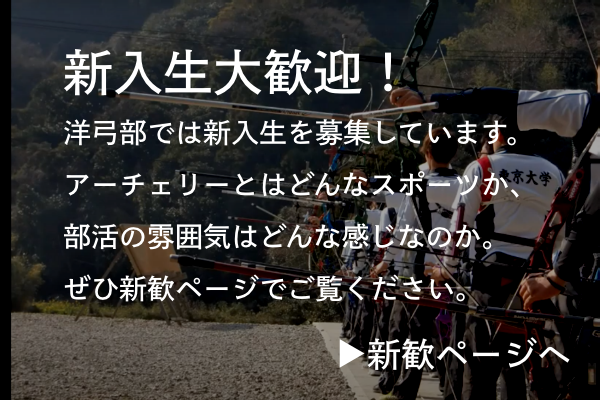
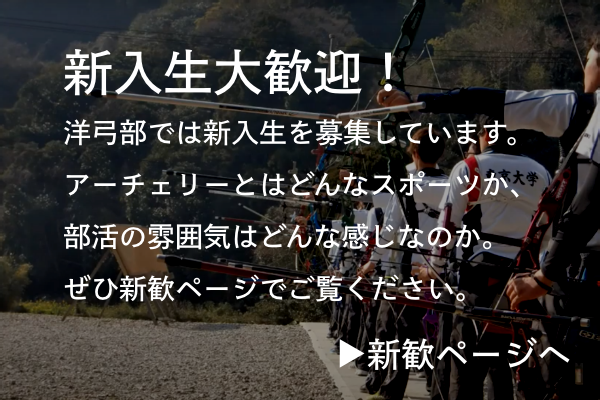
fix a little

diff --git a/archer/css/local.css b/archer/css/local.css
@@ -26,7 +26,8 @@ html {
 topcontents {
   display: flex;
   flex-wrap: wrap;
-  width: 100%;
+  margin: 0 -4px;  /*gamen-ippai*/
+  width: calc(100%+8px);
 }
 
 topcontents img {
